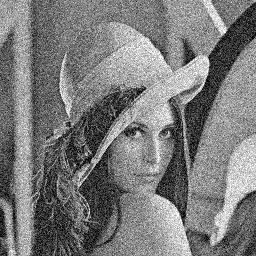
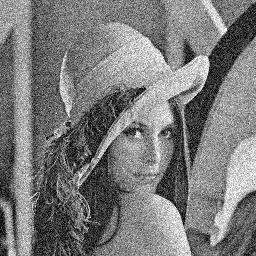
final

diff --git a/main.py b/main.py
@@ -62,8 +62,9 @@ else:
 #     rotate_image12 = Image.fromarray(img_array).rotate(45, expand=True, resample=Image.NEAREST).save('rotate_img_12.jpg')
 #     rotate_image13 = Image.fromarray(img_array).rotate(45, expand=True, resample=Image.BILINEAR).save('rotate_img_13.jpg')
 #     print('Successfully Rotated Image')
-rotate_image12 = Image.fromarray(img_array).rotate(45, expand=True, resample=Image.NEAREST).save('rotate_img_12.jpg')
+# rotate_image12 = Image.fromarray(img_array).rotate(45, expand=True, resample=None).save('rotate_img_12.jpg')
 rotate_image13 = Image.fromarray(img_array).rotate(45, expand=True, resample=Image.BILINEAR).save('rotate_img_13.jpg')
+rotate_image13 = Image.fromarray(img_array).rotate(10, expand=True, resample=Image.BILINEAR).save('rotate_img_14.jpg')
 try:
     rotate_image4 = utils.func_manual_rotate_image_interpolation(img_array, 45, 1)
 except Exception as Argument:
